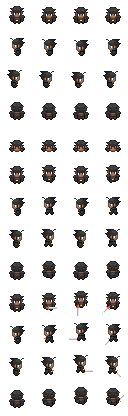
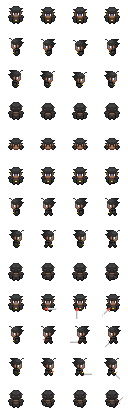
better hitbox

diff --git a/dungeon/src/contrib/entities/HeroBuilder.java b/dungeon/src/contrib/entities/HeroBuilder.java
@@ -209,7 +209,6 @@ public final class HeroBuilder {
     hero.persistent(persistent);
     PlayerComponent pc = new PlayerComponent(isLocal, playerName);
     hero.add(pc);
-    hero.add(new CharacterClassComponent(characterClass));
     CameraComponent cc = new CameraComponent();
     hero.add(new CharacterClassComponent(characterClass));
     if (isLocal) {
@@ -279,7 +278,7 @@ public final class HeroBuilder {
     hc.currentHealthpoints(characterClass.hp());
     hero.add(hc);
     CollideComponent col =
-        new CollideComponent(Vector2.of(dc.getWidth() / 2 - 0.4f, 0.1f), Vector2.of(0.8f, 0.8f));
+        new CollideComponent(Vector2.of(dc.getWidth() / 2 - 0.4f, 0.4f), Vector2.of(0.8f, 0.8f));
     col.onHold(
         (you, other, direction) ->
             other
